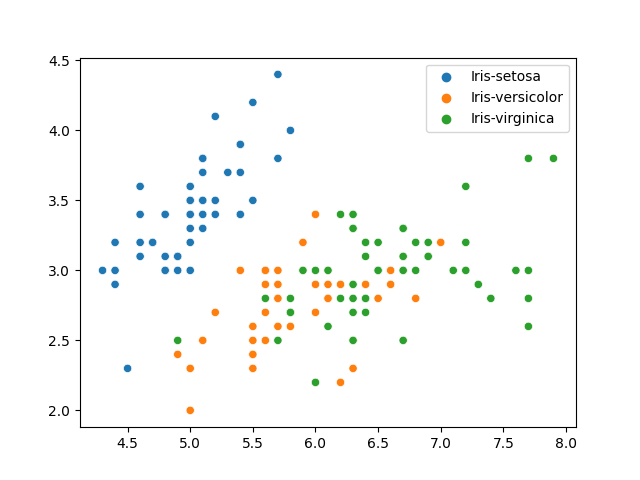
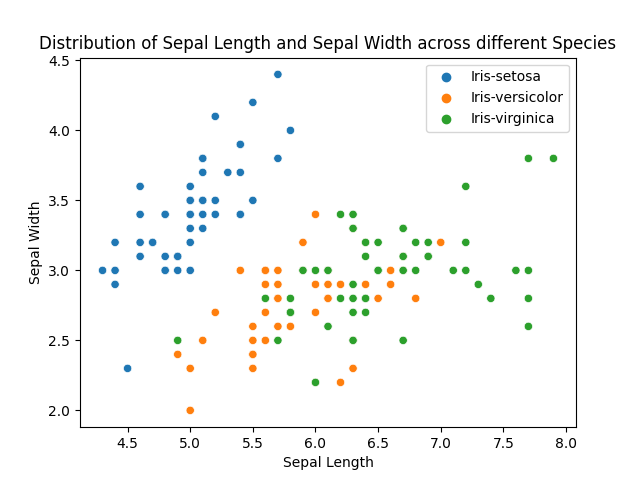
Updated test code and removed unnecessary files

Changed region(s): [[0.0625, 0.0625, 0.9688, 0.125], [0.4375, 0.9375, 0.5938, 1.0], [0.0312, 0.4062, 0.0625, 0.5938]]

diff --git a/Codes/Test_Week3_Polars.py b/Codes/Test_Week3_Polars.py
@@ -1,9 +1,7 @@
 #  IDS 706 Week 3 assignment - testing our template using Polars
- 
 import polars as pl
 from Polars_Description import PolarsDesc
 from Polars_Plot import PolarsPlot
-
 
 def test_Polars():
     #   Reading Source Data from the Github Link
@@ -13,7 +11,7 @@ def test_Polars():
     # Writing the summary statistics to a file Summary.md in output folder
     with open("./Resources/Summary.md", "w", encoding="utf-8") as f:
         f.write(str(PolarsDesc(df_s)))
-        print("Successfuessfully written the Summary.md file in the Resources folder")
+        print("Successfully written the Summary.md file in the Resources folder")
 
     # Pasting the sample graph in the output folder
     PolarsPlot(df_s)

diff --git a/Codes/Polars_Plot.py b/Codes/Polars_Plot.py
@@ -11,8 +11,10 @@ def PolarsPlot(df):
     hue  = df.select(pl.col('species')).to_numpy().ravel()
     #   Plotting the Scatter chart
     ax = sns.scatterplot(x=slen, y=swid, hue=hue)
+    ax.set(xlabel ="Sepal Length", ylabel = "Sepal Width", title ='Distribution of Sepal Length and Sepal Width across different Species')
     #   Saving the chart as a png file in the resources folder
     plt.savefig("./Resources/Data_Plot.png")
+    
     print("Successfully saved the plot in Resources folder")
 
 

diff --git a/README.md b/README.md
@@ -1,7 +1,5 @@
-# DukeIDS706_DE Week 02 Assignment [![Python CI](https://github.com/nogibjj/DukeIDS_DE_ds655/actions/workflows/main.yml/badge.svg)](https://github.com/nogibjj/DukeIDS_DE_ds655/actions/workflows/main.yml)
+# DukeIDS706_DE Week 03 Assignment [![Python CI](https://github.com/nogibjj/DukeIDS_DE_ds655/actions/workflows/main.yml/badge.svg)](https://github.com/nogibjj/DukeIDS_DE_ds655/actions/workflows/main.yml)
 
-
-This repository is cloned from the template created in Week01 (https://github.com/DivyaSharma0795/DukeIDS706_DE_ds655)
 
 Files in this repository include:
 
@@ -11,15 +9,15 @@ Files in this repository include:
 
 
 ## 2. Requirements
-  The `requirements.txt` file has a list of packages to be installed for any required project. Currently, my requirements file contains some basic python packages, and in addition - Pandas, Seaborn, and Matplotlib
+  The `requirements.txt` file has a list of packages to be installed for any required project. Currently, my requirements file contains some basic python packages, and in addition - Polars, Seaborn, and Matplotlib
 
 
 ## 3. Codes
   This folder contains all the code files used in this repository - the project for this week is _Pandas Descriptive Statistics Script_ , I will be using the Iris dataset for this analysis
   The code files in this folder are -
-   * `Pandas_Description.py` - this is a python function to share the description of a dataframe
-   * `Pandas_Plot.py` - this is a python function to plot a chart from the dataframe and save it as a png file
-   * `Test_Week2_Pandas.py` - this is a python code to test the functions defined - this function can also be called by the pytest module in the Makefile of the repository.
+   * `Polars_Description.py` - this is a python function to share the description of a dataframe
+   * `Polars_Plot.py` - this is a python function to plot a chart from the dataframe and save it as a png file
+   * `Test_Week3_Polars.py` - this is a python code to test the functions defined - this function can also be called by the pytest module in the Makefile of the repository.
 
      ![Make Test Output](https://github.com/nogibjj/DukeIDS706_ds655_Week02/blob/main/Resources/Week2_Successful_Test.png?raw=true)
 
